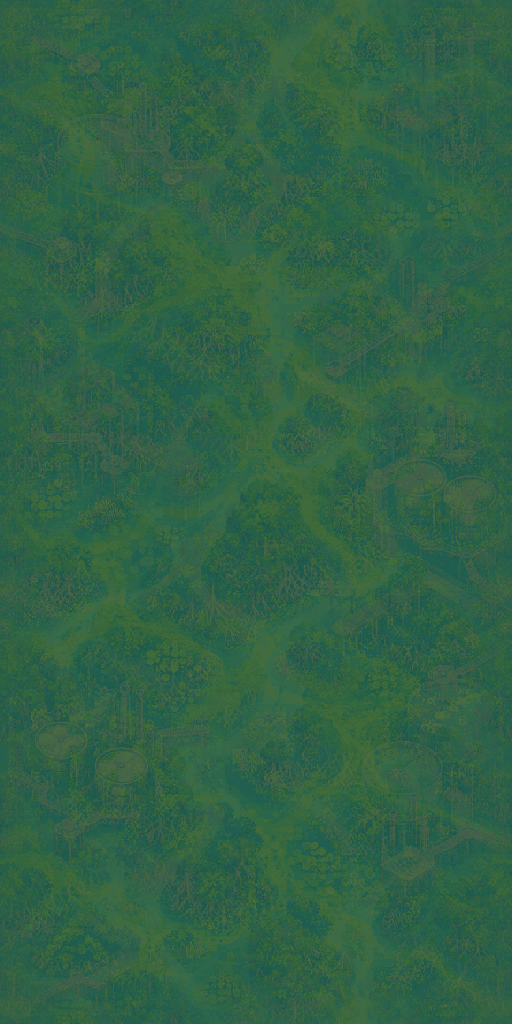
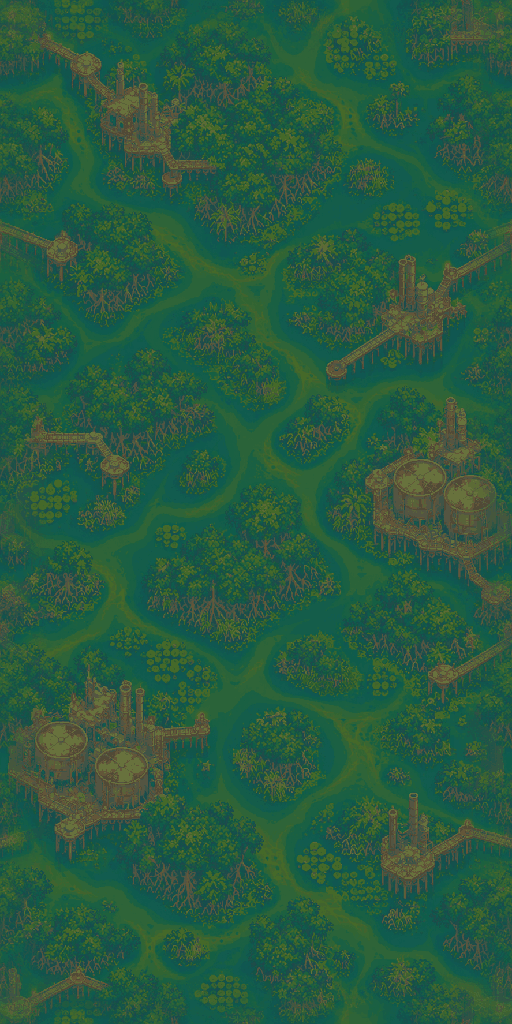
Verdant v2 swamp delta: Codex redraw so the refineries, tanks, stacks and walkways read as buildings (warm stone, rust, brass, lit windows) on a darker, calmer swamp

diff --git a/Pause/Assets/Art/Worlds/Verdant/backdrop_v3/src~/build_swamp_v2.py b/Pause/Assets/Art/Worlds/Verdant/backdrop_v3/src~/build_swamp_v2.py
@@ -1,0 +1,41 @@
+"""Rebuild Verdant v2 (swamp delta) sky/far/mid from the Codex repaint swamp_v2/swamp_a.png (flow.png is kept).
+Buildings (stilt refineries, tanks, stacks, walkways) drawn clearly: warm stone / rust / brass with lit windows, darker calmer swamp.
+Only `mid` is seen in game (opaque, on top); sky / far get the same picture, hazed deeper.
+Run: /usr/local/bin/python3 build_swamp_v2.py"""
+from pathlib import Path
+import sys
+import numpy as np
+from PIL import Image
+sys.path.insert(0, str(Path(__file__).resolve().parent))
+import build as B
+W, H = B.W, B.H
+HERE = Path(__file__).resolve().parent
+OUT = Path(__file__).resolve().parents[5] / "Art/Backgrounds/Resources/Worlds/Verdant/Backdrop3/v2"
+TARGET = {"sky": .40, "far": .43, "mid": .43}   # drawn x .95 / .8 by VariantBrightness; old .415 / .445 / .475
+SAT = {"sky": 1.0, "far": 1.1, "mid": 1.1}
+CONTRAST = {"sky": .30, "far": .62, "mid": .80}
+HAZE = {"sky": .26, "far": .06, "mid": 0.0}
+FOG = (.12, .30, .28)
+
+
+def ground(role):
+    a = np.asarray(Image.open(HERE / "swamp_v2" / "swamp_a.png").convert("RGB").resize((W, H), Image.Resampling.NEAREST)).copy()
+    f = a.astype(np.float32) / 255
+    g = f.mean(axis=2, keepdims=True)
+    f = g + (f - g) * SAT[role]
+    f = f * (1 - HAZE[role]) + np.array(FOG, np.float32) * HAZE[role]
+    rgb = np.uint8(np.clip(np.rint(f * 255), 0, 255))
+    t, cap = TARGET[role], .66
+    rgb = B.palette_and_value(rgb, t, CONTRAST[role], 0, cap, colors=42 if role == "sky" else 64)
+    rgba = B.wrap_blend(np.dstack((rgb, np.full((H, W), 255, np.uint8))))
+    rgb = B.palette_and_value(rgba[:, :, :3], t, 1.0, 0, cap, colors=64)
+    rgba = np.dstack((rgb, np.full((H, W), 255, np.uint8)))
+    rgba[:, -1] = rgba[:, 0]; rgba[-1] = rgba[0]
+    return Image.fromarray(rgba, "RGBA")
+
+
+if __name__ == "__main__":
+    for role in ("sky", "far", "mid"):
+        im = ground(role)
+        im.save(OUT / f"{role}.png", optimize=True)
+        print(role, im.size, B.stats(im))

diff --git a/Pause/Assets/Art/Worlds/Verdant/backdrop_v3/src~/swamp_v2/prompts/swamp_a.md b/Pause/Assets/Art/Worlds/Verdant/backdrop_v3/src~/swamp_v2/prompts/swamp_a.md
@@ -1,0 +1,9 @@
+Use your built-in image generation tool to REDRAW the attached reference image (v2_terrain_a.png: a top-down aerial view of a mangrove swamp delta, with stilted refineries, storage tanks, smokestacks, pipe walkways and platforms among islands of mangrove canopy, teal channels and lily pads; 887x1774 portrait) so that the BUILDINGS ARE CLEARLY SHOWN instead of muted into the backdrop. Same place: KEEP the composition, the layout of every channel, island, walkway and structure in exactly the same positions and silhouettes, the top-down view, the portrait framing, terrain filling every edge.
+
+BUILDING PROMINENCE (the main point): every man-made structure (stilted refinery decks, round storage tanks, smokestacks, pipe walkways, platforms, towers, huts) must be CLEARLY READABLE and PROMINENT, not faded, hazy or green-tinted. Give them strong value contrast against the surrounding swamp: pale weathered concrete, rusted steel and brass/copper in warm stone, ochre and rust tones (never green), bright warm rim-light on the sun-facing edges, darker shaded sides, a dark cast shadow on the water or canopy under them, visible panels, rivets, hatches, ladders and rails, and a few small warm-amber and cyan lit windows and lamps on the structures. Crisp hard pixel edges, silhouette clearly separated from the swamp, no haze, fog or colour wash over them. The tank lids and roofs show structure (ribs, vents). Do not enlarge, move or add structures, same positions.
+
+The swamp around them (mangrove canopy, roots, channels, lily pads) stays the DARKER, calmer, deeper-green and teal backdrop so the structures pop. No grey wash anywhere. Mud-brown roots stay dark and low saturation.
+
+HARD RULES: hi-res neon pixel art with crisp square pixels, no outlines or line borders around anything, no text, no blur, no pink or magenta, no horizon, no ships, no space. Overall brightness moderate: this is the backdrop of a shooter with brown and black bullets and orange atoms and enemies, so no large bright flat areas and no saturated orange in the canopy; the brightest detail sits only on the structures.
+LAYER ROLE: PLAY layer (the one the player sees): keep the swamp a little darker and calmer; structures still clearly readable.
+Output: copy the generated image to ./swamp_a.png in your current working directory (887x1774 portrait, not resized or cropped to square), reply with one line.
